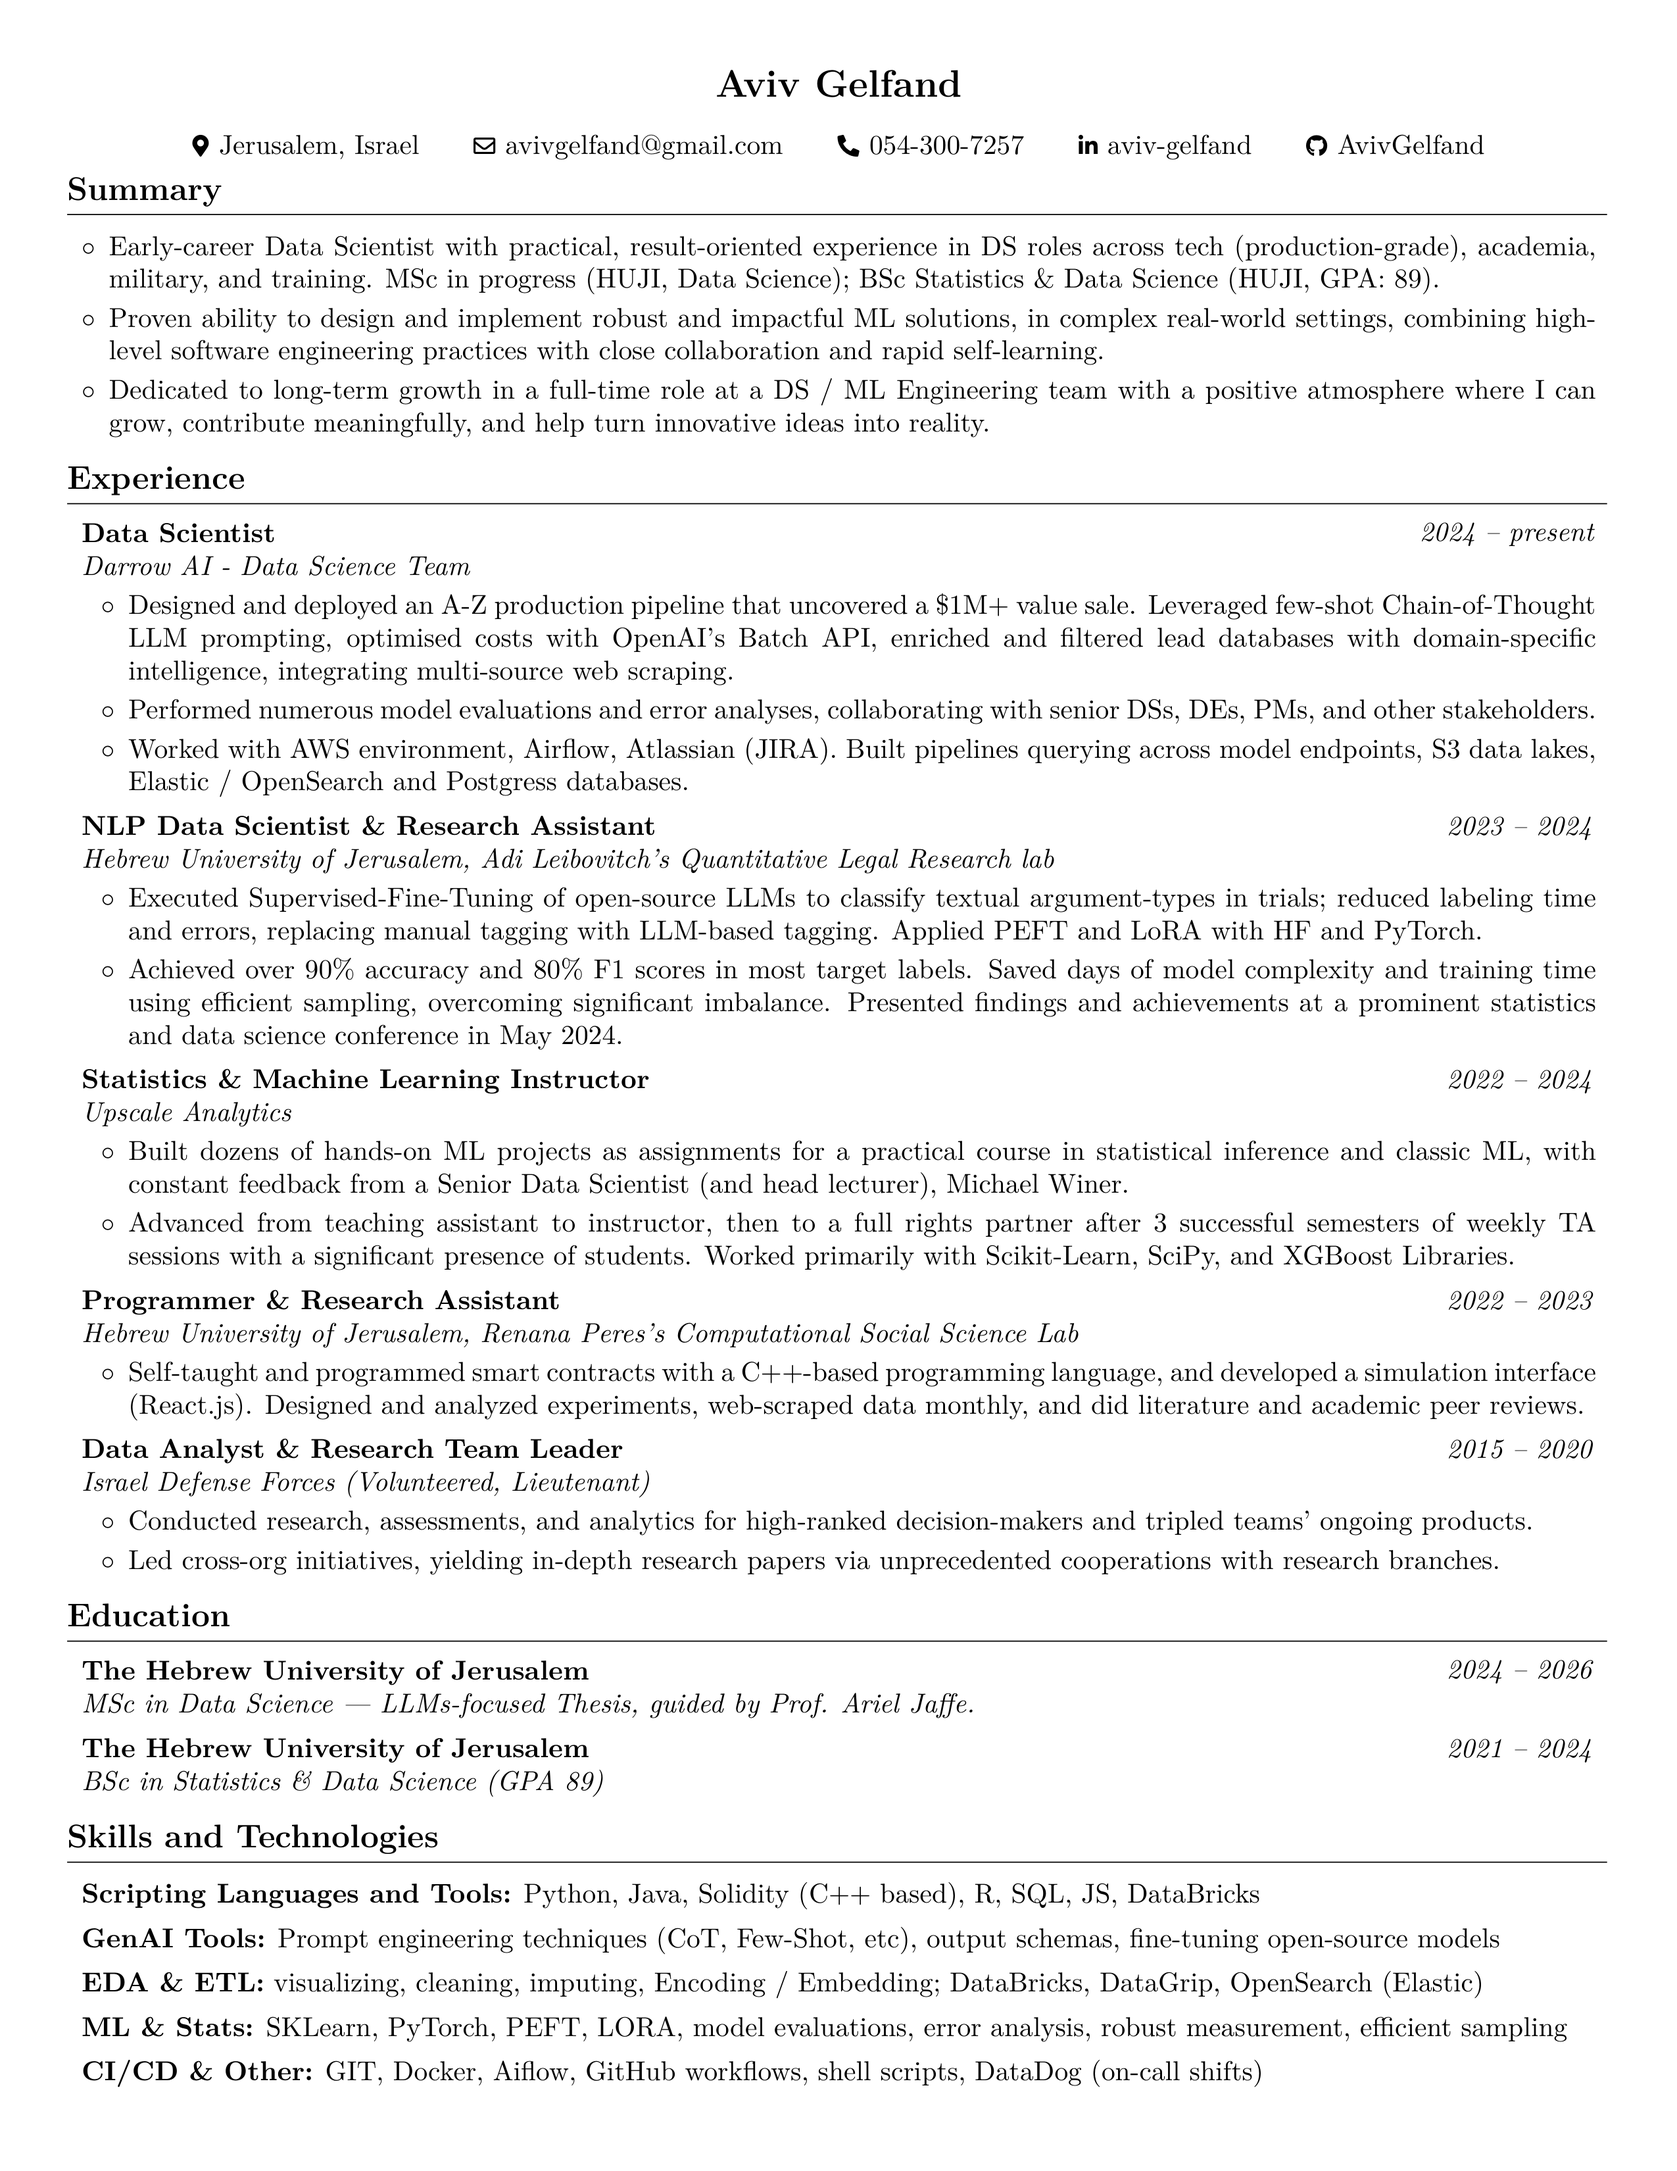
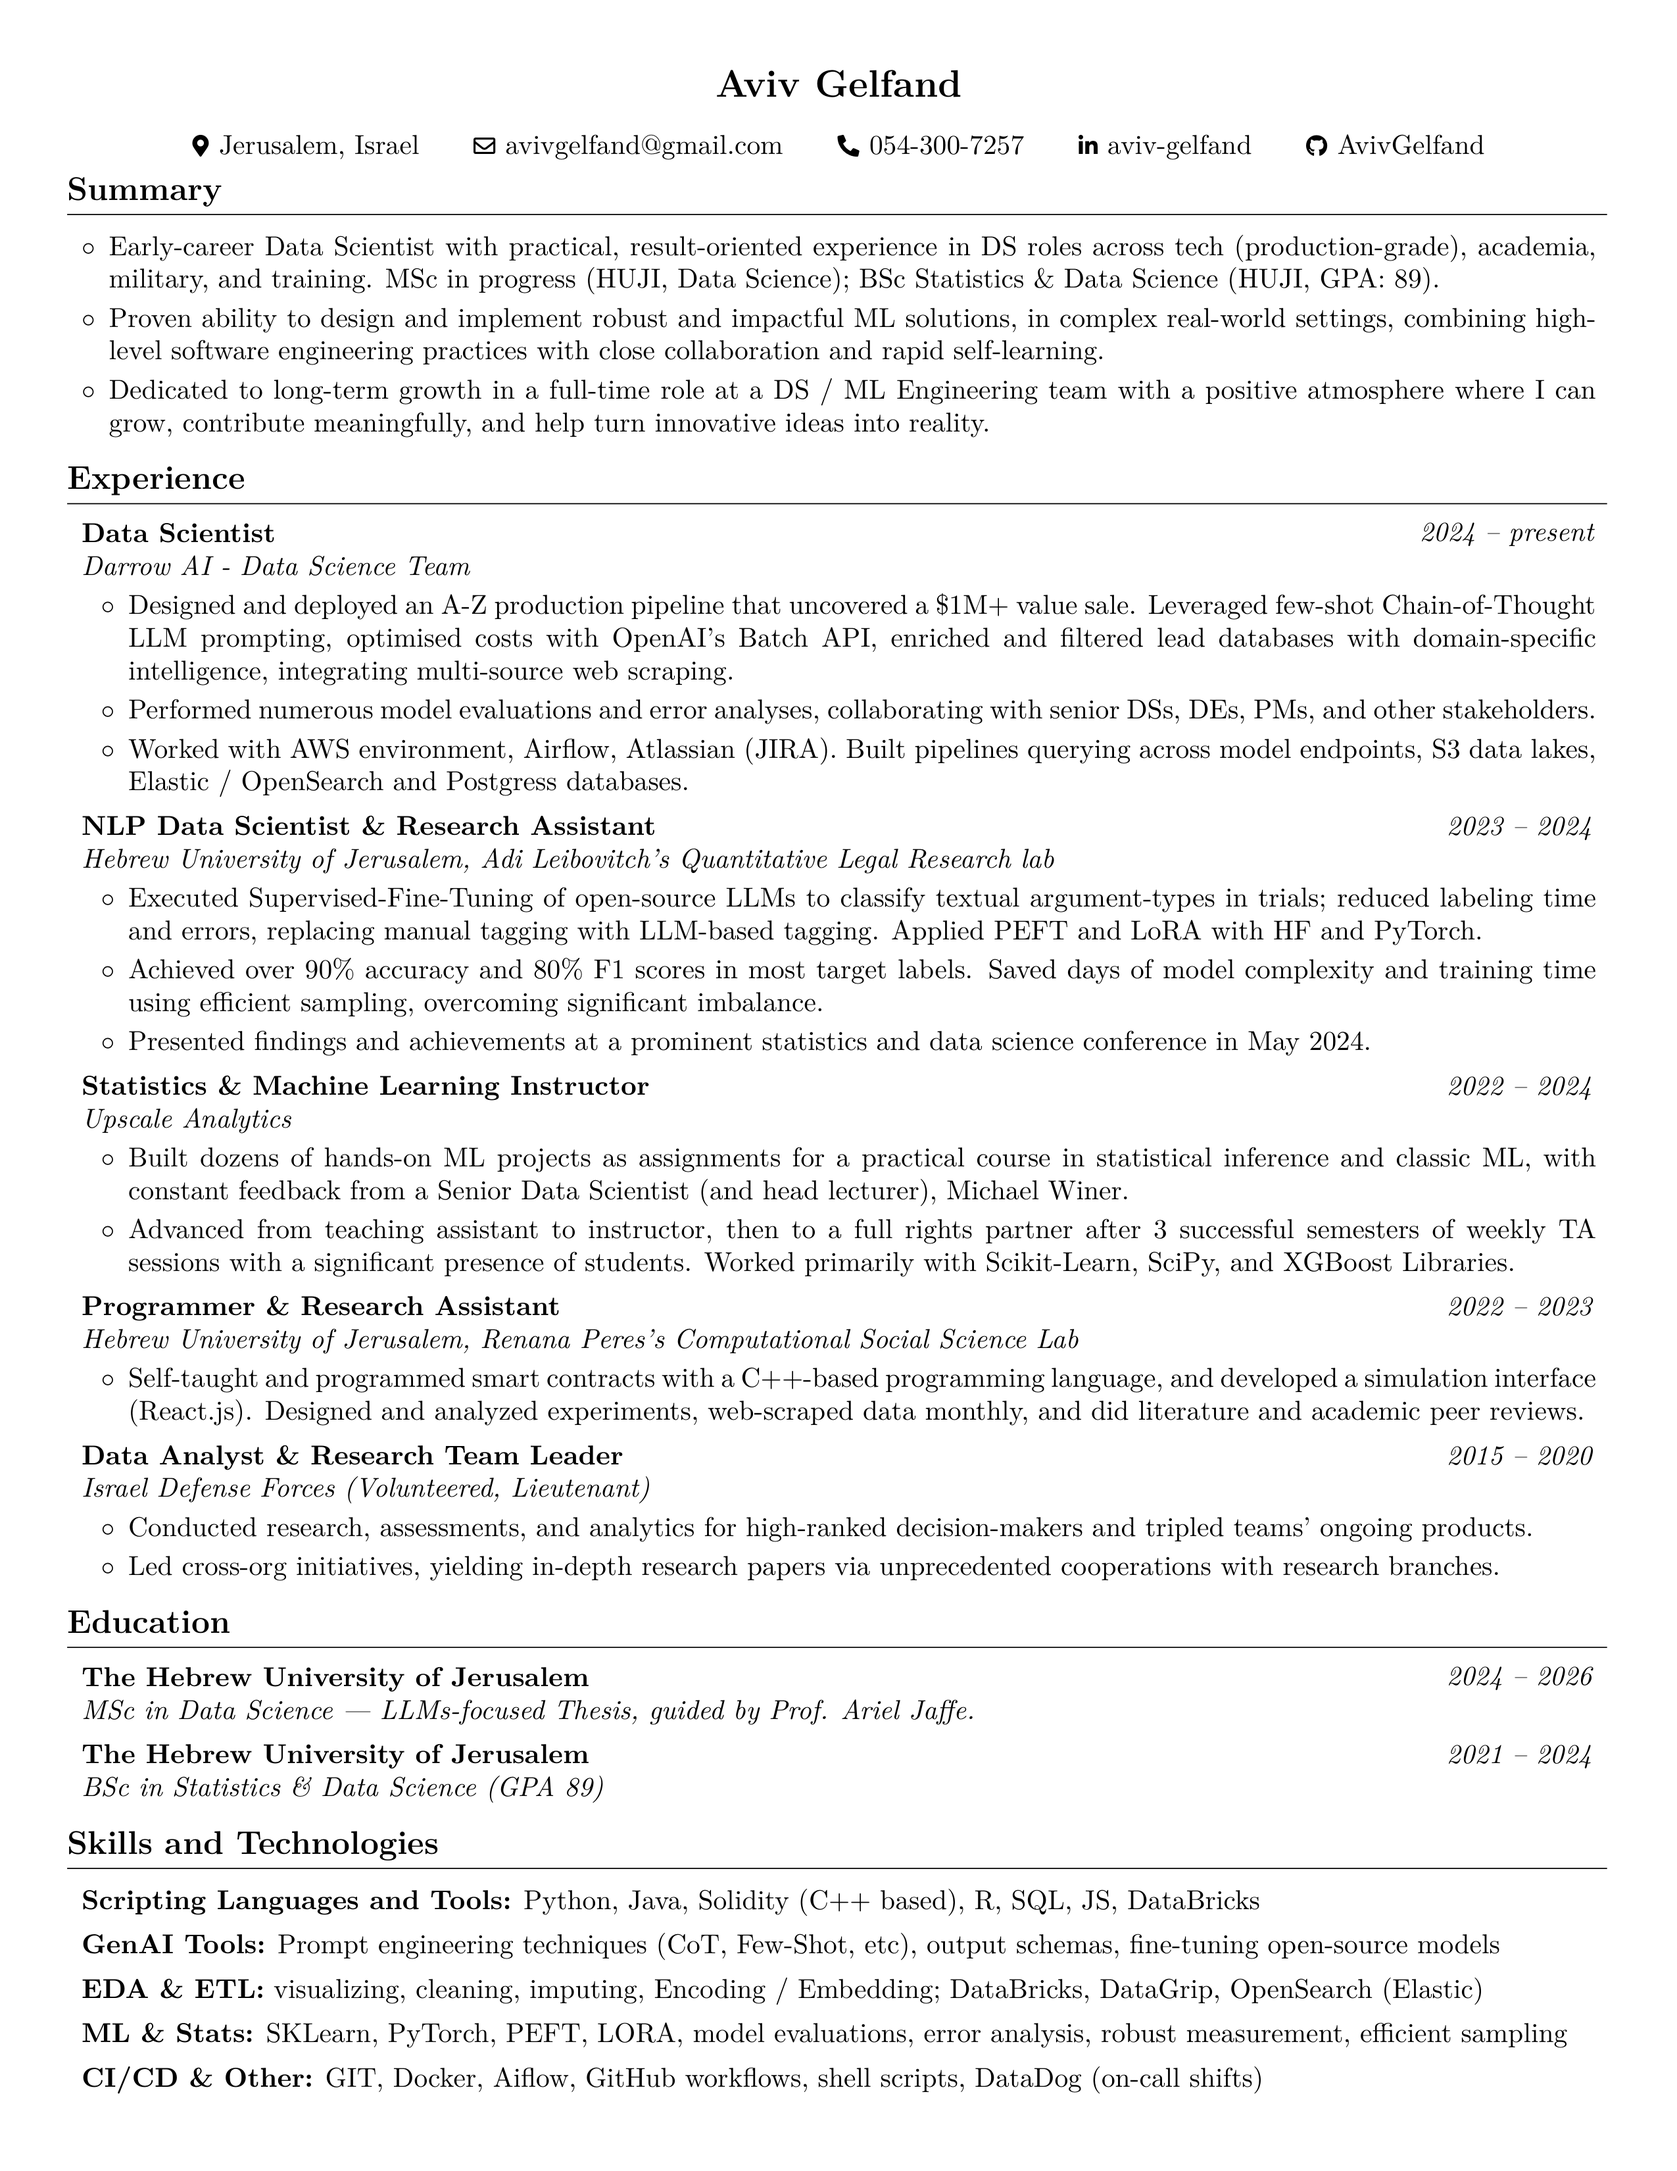
Render the latest CV

diff --git a/Aviv_Gelfand_CV.html b/Aviv_Gelfand_CV.html
@@ -58,7 +58,8 @@
         <ul>
         <li>2023 – 2024</li>
         <li>Executed Supervised-Fine-Tuning of open-source LLMs to classify textual argument-types in trials; reduced labeling time and errors, replacing manual tagging with LLM-based tagging. Applied PEFT and LoRA with HF and PyTorch.</li>
-        <li>Achieved over 90% accuracy and 80% F1 scores in most target labels. Saved days of model complexity and training time using efficient sampling, overcoming significant imbalance. Presented findings and achievements at a prominent statistics and data science conference in May 2024.</li>
+        <li>Achieved over 90% accuracy and 80% F1 scores in most target labels. Saved days of model complexity and training time using efficient sampling, overcoming significant imbalance.</li>
+        <li>Presented findings and achievements at a prominent statistics and data science conference in May 2024.</li>
         </ul>
         <h2>Upscale Analytics, Statistics &amp; Machine Learning Instructor</h2>
         <ul>

diff --git a/Aviv_Gelfand_CV.tex b/Aviv_Gelfand_CV.tex
@@ -230,7 +230,8 @@
         \begin{onecolentry}
             \begin{highlights}
                 \item Executed Supervised-Fine-Tuning of open-source LLMs to classify textual argument-types in trials; reduced labeling time and errors, replacing manual tagging with LLM-based tagging. Applied PEFT and LoRA with HF and PyTorch.
-                \item Achieved over 90\% accuracy and 80\% F1 scores in most target labels. Saved days of model complexity and training time using efficient sampling, overcoming significant imbalance. Presented findings and achievements at a prominent statistics and data science conference in May 2024.
+                \item Achieved over 90\% accuracy and 80\% F1 scores in most target labels. Saved days of model complexity and training time using efficient sampling, overcoming significant imbalance.
+                \item Presented findings and achievements at a prominent statistics and data science conference in May 2024.
             \end{highlights}
         \end{onecolentry}
 

diff --git a/README.md b/README.md
@@ -27,7 +27,8 @@
 
 - 2023 – 2024
 - Executed Supervised-Fine-Tuning of open-source LLMs to classify textual argument-types in trials; reduced labeling time and errors, replacing manual tagging with LLM-based tagging. Applied PEFT and LoRA with HF and PyTorch.
-- Achieved over 90% accuracy and 80% F1 scores in most target labels. Saved days of model complexity and training time using efficient sampling, overcoming significant imbalance. Presented findings and achievements at a prominent statistics and data science conference in May 2024.
+- Achieved over 90% accuracy and 80% F1 scores in most target labels. Saved days of model complexity and training time using efficient sampling, overcoming significant imbalance.
+- Presented findings and achievements at a prominent statistics and data science conference in May 2024.
 
 ## Upscale Analytics, Statistics & Machine Learning Instructor
 
